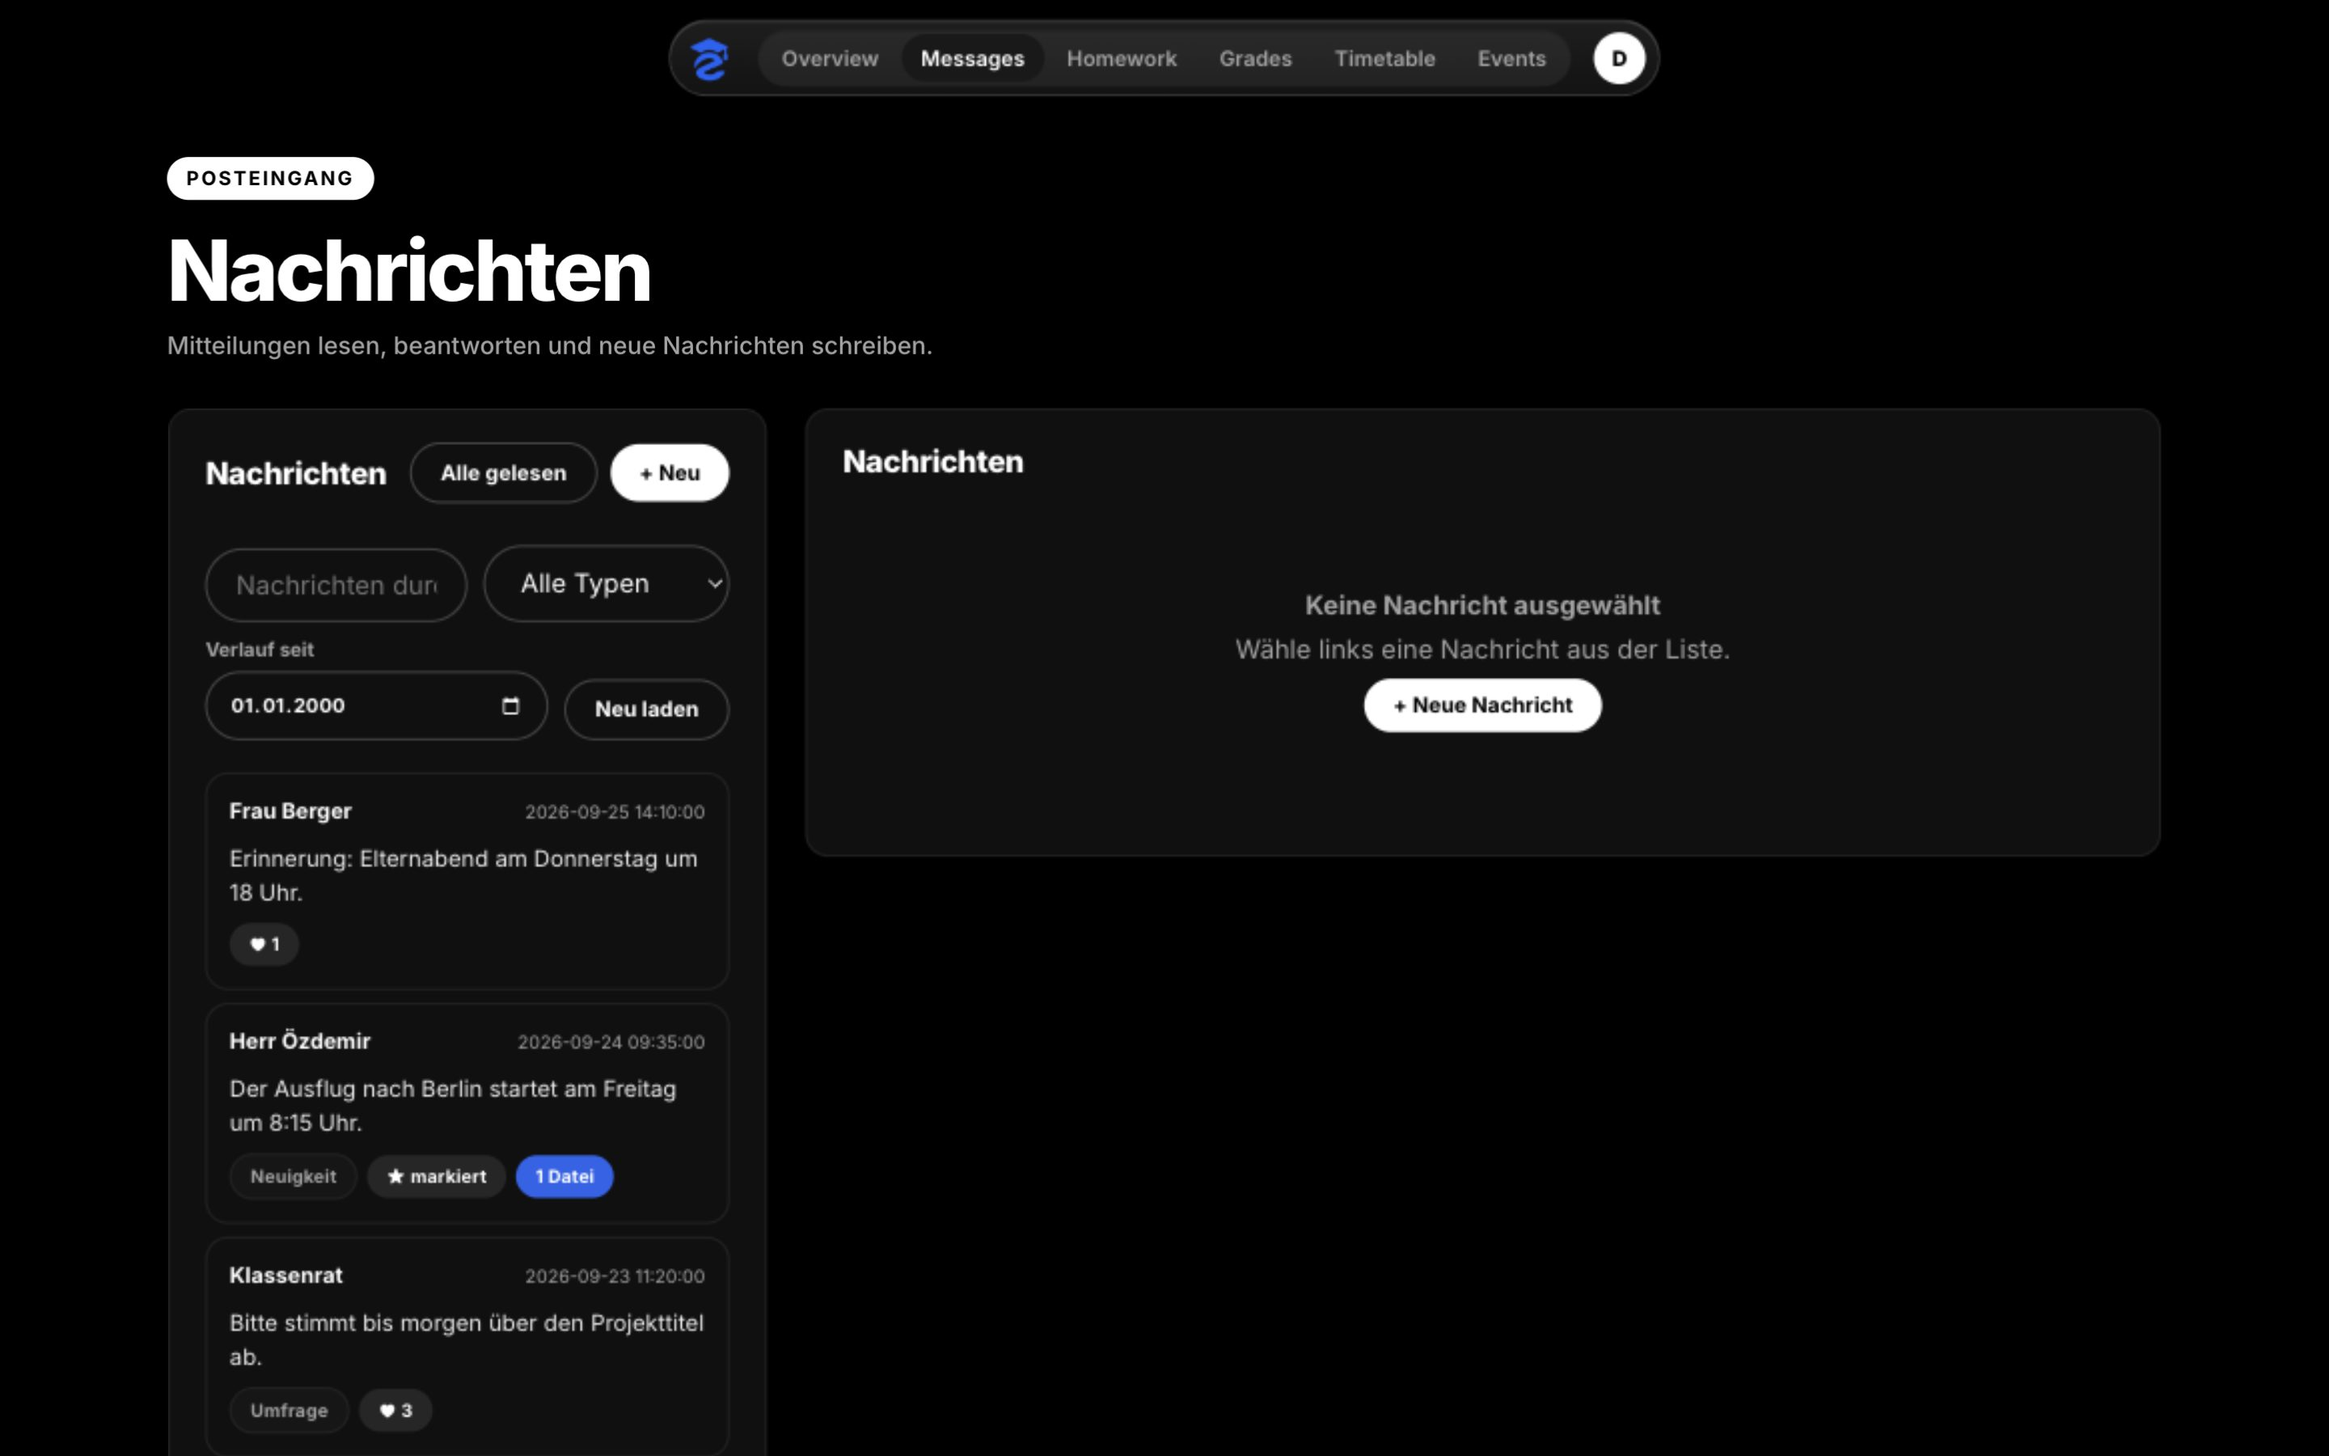
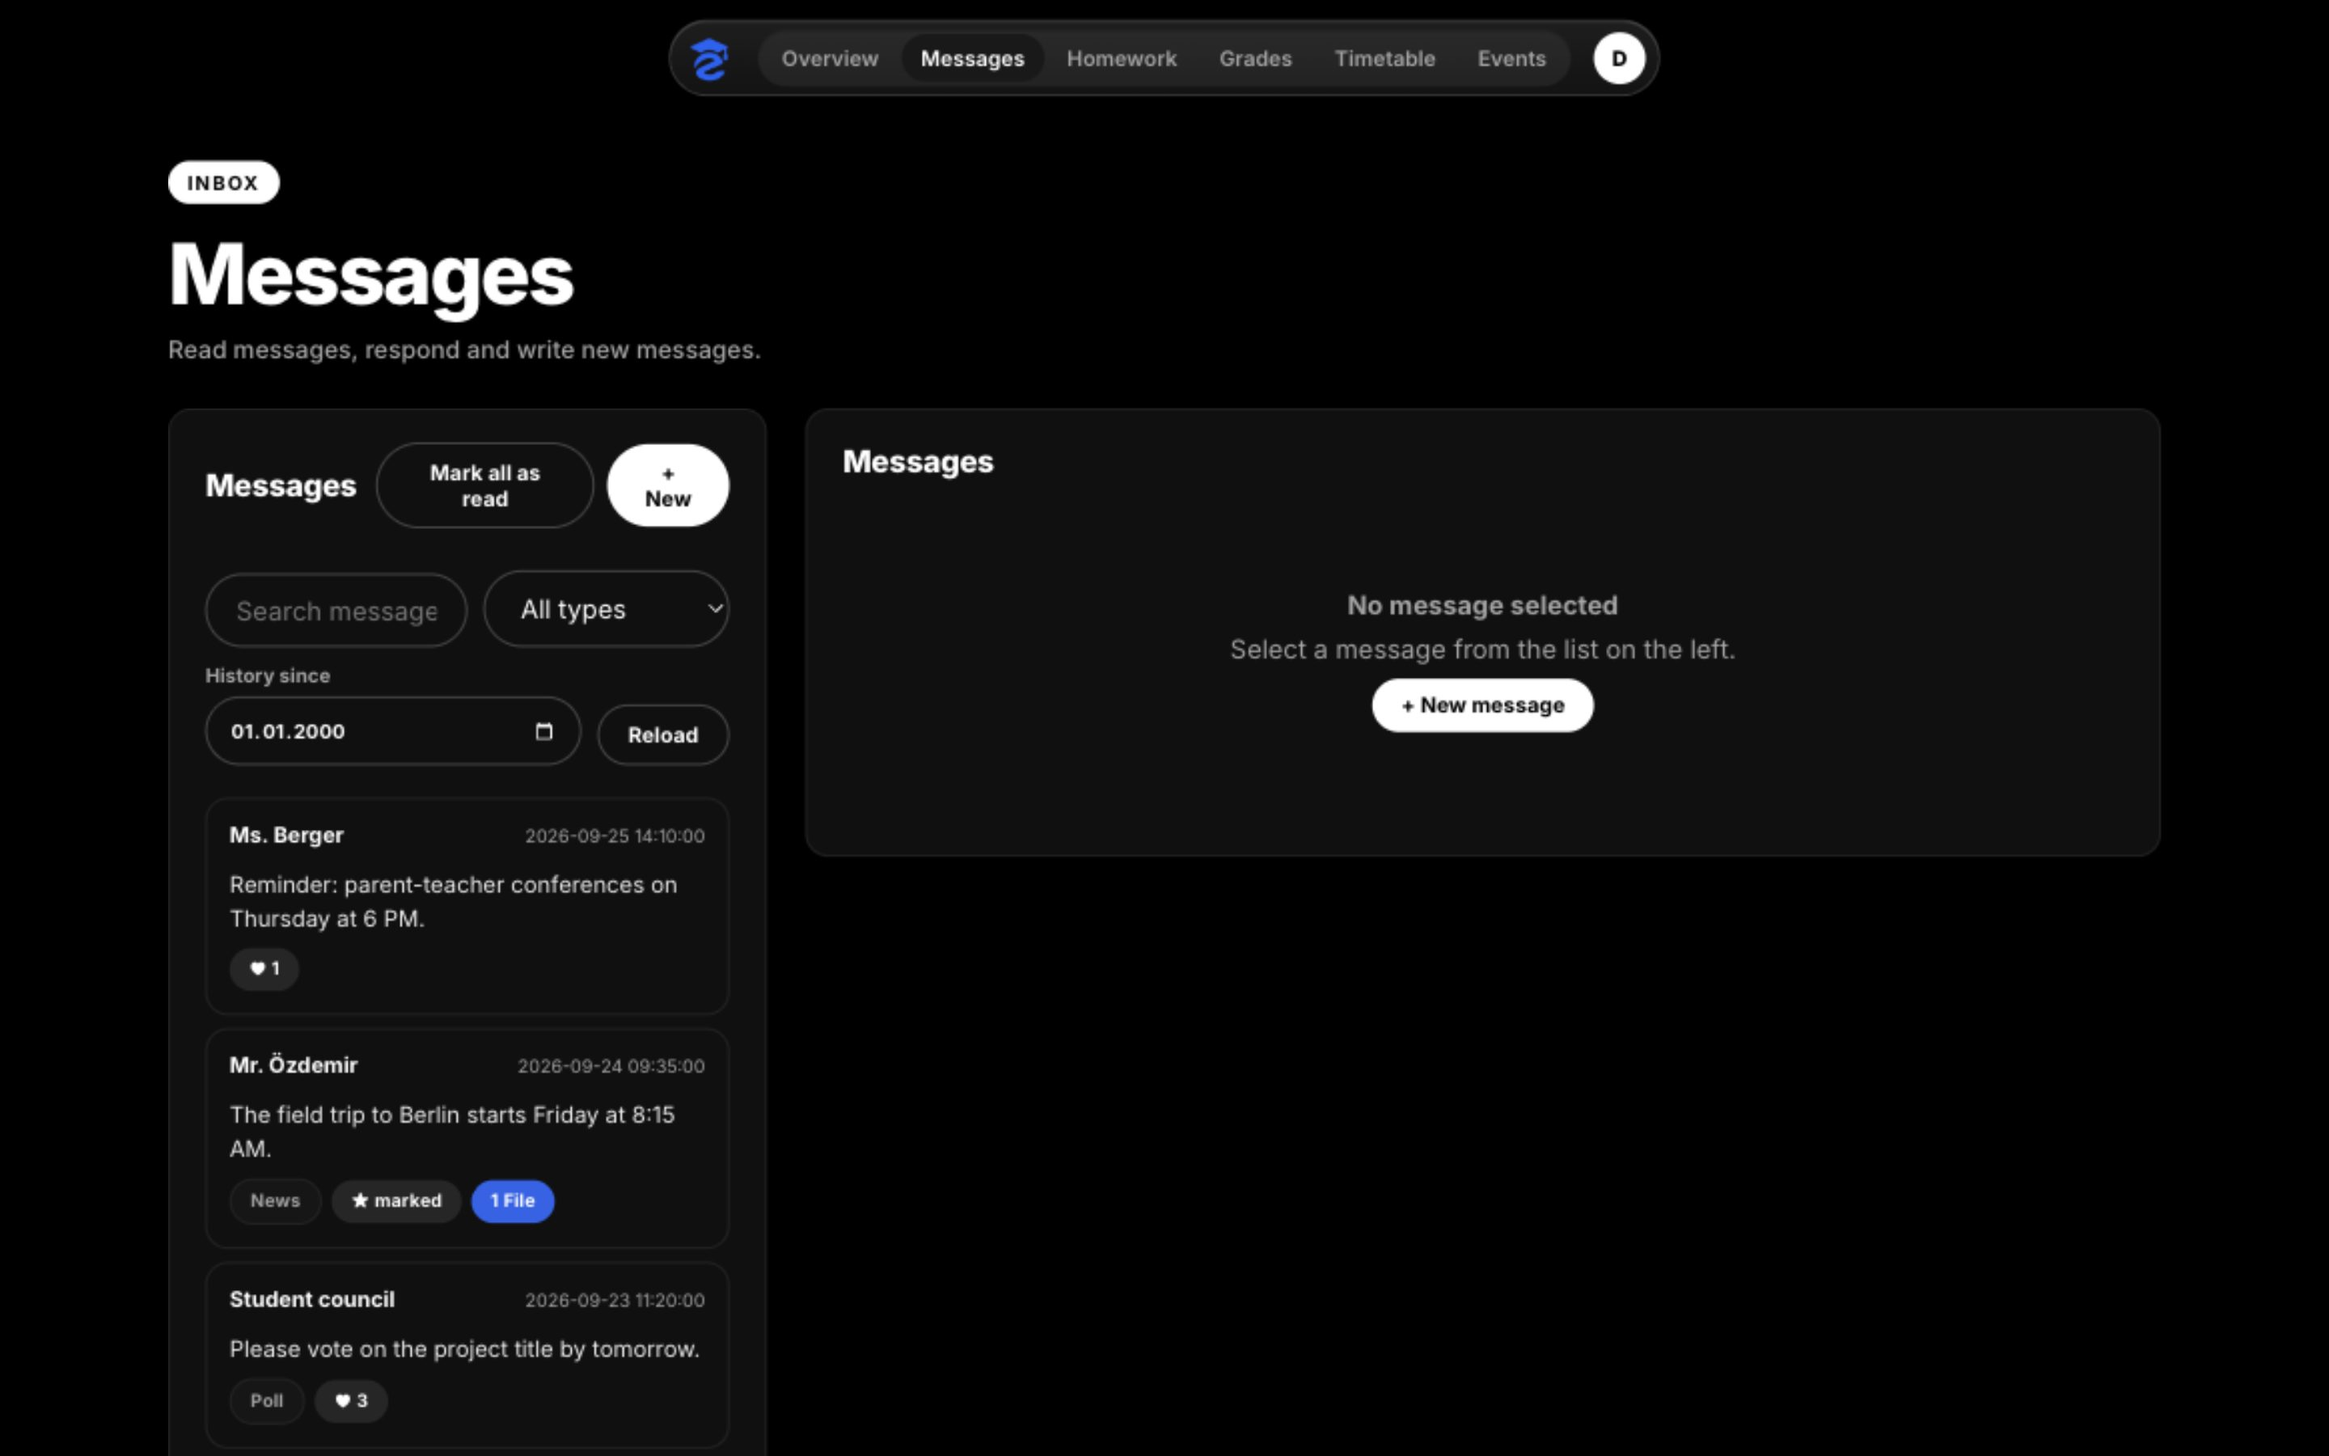
docs: English demo fixtures + screenshots, status pill mapping
Backend demo (fake provider) is now fully English: fixtures,
generated labels, day names, dates (en-US), weather and attachment
texts. Status/filter codes stay German (API contract).
Web shows a localized status pill (new homework.dueToday key).
Docs: 9 English screenshots incl. 2FA.

diff --git a/apps/api/src/testing/demo-data.ts b/apps/api/src/testing/demo-data.ts
@@ -1,8 +1,8 @@
 export const demoMessages = [
-  { id: 4101, timestamp: "2026-09-25 14:10:00", timestamp_iso: "2026-09-25T14:10:00", sort_key: "2026-09-25T14:10:00", text: "Erinnerung: Elternabend am Donnerstag um 18 Uhr.", author: "Frau Berger", recipient: "Klasse 8A", type: "sprava", type_label: "Nachricht", additional_data: {}, is_starred: false, is_done: false, done_at: "", reaction_count: 1, created_at: "2026-09-25T14:10:00", is_removed: false },
-  { id: 4102, timestamp: "2026-09-24 09:35:00", timestamp_iso: "2026-09-24T09:35:00", sort_key: "2026-09-24T09:35:00", text: "Der Ausflug nach Berlin startet am Freitag um 8:15 Uhr.", author: "Herr Özdemir", recipient: "Klasse 8A", type: "news", type_label: "Neuigkeit", additional_data: { filename: "Packliste.pdf", file: "/cloud/demo-packliste.pdf" }, is_starred: true, is_done: false, done_at: "", reaction_count: 0, created_at: "2026-09-24T09:35:00", is_removed: false },
-  { id: 4103, timestamp: "2026-09-23 11:20:00", timestamp_iso: "2026-09-23T11:20:00", sort_key: "2026-09-23T11:20:00", text: "Bitte stimmt bis morgen über den Projekttitel ab.", author: "Klassenrat", recipient: "Klasse 8A", type: "anketa", type_label: "Umfrage", additional_data: {}, is_starred: false, is_done: false, done_at: "", reaction_count: 3, created_at: "2026-09-23T11:20:00", is_removed: false },
-  { id: 4104, timestamp: "2026-09-22 12:00:00", timestamp_iso: "2026-09-22T12:00:00", sort_key: "2026-09-22T12:00:00", text: "Danke für eure Rückmeldungen!", author: "Lea Beispiel", recipient: "Frau Berger", type: "sprava", type_label: "Nachricht", additional_data: { textReply: "4101" }, is_starred: false, is_done: false, done_at: "", reaction_count: 0, created_at: "2026-09-22T12:00:00", is_removed: false },
+  { id: 4101, timestamp: "2026-09-25 14:10:00", timestamp_iso: "2026-09-25T14:10:00", sort_key: "2026-09-25T14:10:00", text: "Reminder: parent-teacher conferences on Thursday at 6 PM.", author: "Ms. Berger", recipient: "Class 8A", type: "sprava", type_label: "Message", additional_data: {}, is_starred: false, is_done: false, done_at: "", reaction_count: 1, created_at: "2026-09-25T14:10:00", is_removed: false },
+  { id: 4102, timestamp: "2026-09-24 09:35:00", timestamp_iso: "2026-09-24T09:35:00", sort_key: "2026-09-24T09:35:00", text: "The field trip to Berlin starts Friday at 8:15 AM.", author: "Mr. Özdemir", recipient: "Class 8A", type: "news", type_label: "News", additional_data: { filename: "PackingList.pdf", file: "/cloud/demo-packing-list.pdf" }, is_starred: true, is_done: false, done_at: "", reaction_count: 0, created_at: "2026-09-24T09:35:00", is_removed: false },
+  { id: 4103, timestamp: "2026-09-23 11:20:00", timestamp_iso: "2026-09-23T11:20:00", sort_key: "2026-09-23T11:20:00", text: "Please vote on the project title by tomorrow.", author: "Student council", recipient: "Class 8A", type: "anketa", type_label: "Poll", additional_data: {}, is_starred: false, is_done: false, done_at: "", reaction_count: 3, created_at: "2026-09-23T11:20:00", is_removed: false },
+  { id: 4104, timestamp: "2026-09-22 12:00:00", timestamp_iso: "2026-09-22T12:00:00", sort_key: "2026-09-22T12:00:00", text: "Thanks for your feedback!", author: "Lea Example", recipient: "Ms. Berger", type: "sprava", type_label: "Message", additional_data: { textReply: "4101" }, is_starred: false, is_done: false, done_at: "", reaction_count: 0, created_at: "2026-09-22T12:00:00", is_removed: false },
 ];
 
 const due = (offset: number): string => {
@@ -10,28 +10,28 @@ const due = (offset: number): string => {
 };
 
 export const demoHomework = [
-  { id: 5101, type: "homework", title: "Übungsblatt 4, Aufgaben 1–6", subject: "Mathematik", teacher: "Frau Berger", description: "Rechenwege vollständig notieren.", assigned: due(-2), assigned_iso: due(-2), due: due(1), due_display: new Date(`${due(1)}T12:00:00`).toLocaleDateString("de-DE"), status: "offen", is_done: false, is_hidden: false },
-  { id: 5102, type: "homework", title: "Vokabeln Unit 3 wiederholen", subject: "Englisch", teacher: "Herr Meyer", description: "Wörter 1 bis 25.", assigned: due(-1), assigned_iso: due(-1), due: due(0), due_display: new Date(`${due(0)}T12:00:00`).toLocaleDateString("de-DE"), status: "heute fällig", is_done: false, is_hidden: false },
-  { id: 5103, type: "homework", title: "Lesetagebuch ergänzen", subject: "Deutsch", teacher: "Herr Özdemir", description: "Kapitel 5 und 6.", assigned: due(-4), assigned_iso: due(-4), due: due(-1), due_display: new Date(`${due(-1)}T12:00:00`).toLocaleDateString("de-DE"), status: "überfällig", is_done: false, is_hidden: false },
-  { id: 5104, type: "homework", title: "Skizze für das Plakat", subject: "Kunst", teacher: "Frau Lang", description: "Papier oder Tablet.", assigned: due(-8), assigned_iso: due(-8), due: due(-3), due_display: new Date(`${due(-3)}T12:00:00`).toLocaleDateString("de-DE"), status: "erledigt", is_done: true, is_hidden: false },
-  { id: 5105, type: "bexam", title: "Lernzielkontrolle: Kräfte", subject: "Physik", teacher: "Frau Berger", description: "Kapitel 2.", assigned: due(-1), assigned_iso: due(-1), due: due(4), due_display: new Date(`${due(4)}T12:00:00`).toLocaleDateString("de-DE"), status: "offen", is_done: false, is_hidden: false },
+  { id: 5101, type: "homework", title: "Practice sheet 4, exercises 1–6", subject: "Math", teacher: "Ms. Berger", description: "Write down all solution steps.", assigned: due(-2), assigned_iso: due(-2), due: due(1), due_display: new Date(`${due(1)}T12:00:00`).toLocaleDateString("en-US"), status: "offen", is_done: false, is_hidden: false },
+  { id: 5102, type: "homework", title: "Review Unit 3 vocabulary", subject: "English", teacher: "Mr. Meyer", description: "Words 1 through 25.", assigned: due(-1), assigned_iso: due(-1), due: due(0), due_display: new Date(`${due(0)}T12:00:00`).toLocaleDateString("en-US"), status: "heute fällig", is_done: false, is_hidden: false },
+  { id: 5103, type: "homework", title: "Complete the reading journal", subject: "German", teacher: "Mr. Özdemir", description: "Chapters 5 and 6.", assigned: due(-4), assigned_iso: due(-4), due: due(-1), due_display: new Date(`${due(-1)}T12:00:00`).toLocaleDateString("en-US"), status: "überfällig", is_done: false, is_hidden: false },
+  { id: 5104, type: "homework", title: "Sketch for the poster", subject: "Art", teacher: "Ms. Lang", description: "Paper or tablet.", assigned: due(-8), assigned_iso: due(-8), due: due(-3), due_display: new Date(`${due(-3)}T12:00:00`).toLocaleDateString("en-US"), status: "erledigt", is_done: true, is_hidden: false },
+  { id: 5105, type: "bexam", title: "Quiz: forces", subject: "Physics", teacher: "Ms. Berger", description: "Chapter 2.", assigned: due(-1), assigned_iso: due(-1), due: due(4), due_display: new Date(`${due(4)}T12:00:00`).toLocaleDateString("en-US"), status: "offen", is_done: false, is_hidden: false },
 ];
 
 export const demoGrades = [
-  { id: 6101, title: "Schularbeit 1", subject: "Mathematik", teacher: "Frau Berger", date_display: "24.09.2026", date_iso: "2026-09-24", sort_key: "2026-09-24T00:00:00", comment: "", grade_display: "2", grade_num: 2, weight: 1, weight_display: "", grade_sub: "", badge: "g12", class_avg: 2.4, class_avg_display: "2,4", is_classic: true },
-  { id: 6102, title: "Vokabeltest 3", subject: "Englisch", teacher: "Herr Meyer", date_display: "22.09.2026", date_iso: "2026-09-22", sort_key: "2026-09-22T00:00:00", comment: "", grade_display: "1", grade_num: 1, weight: 1, weight_display: "", grade_sub: "", badge: "g12", class_avg: null, class_avg_display: "", is_classic: true },
-  { id: 6103, title: "Interpretation", subject: "Deutsch", teacher: "Herr Özdemir", date_display: "18.09.2026", date_iso: "2026-09-18", sort_key: "2026-09-18T00:00:00", comment: "Gute Belege", grade_display: "2+", grade_num: 1.7, weight: 0.5, weight_display: "½", grade_sub: "", badge: "g12", class_avg: 2.8, class_avg_display: "2,8", is_classic: true },
+  { id: 6101, title: "Written test 1", subject: "Math", teacher: "Ms. Berger", date_display: "09/24/2026", date_iso: "2026-09-24", sort_key: "2026-09-24T00:00:00", comment: "", grade_display: "2", grade_num: 2, weight: 1, weight_display: "", grade_sub: "", badge: "g12", class_avg: 2.4, class_avg_display: "2.4", is_classic: true },
+  { id: 6102, title: "Vocabulary quiz 3", subject: "English", teacher: "Mr. Meyer", date_display: "09/22/2026", date_iso: "2026-09-22", sort_key: "2026-09-22T00:00:00", comment: "", grade_display: "1", grade_num: 1, weight: 1, weight_display: "", grade_sub: "", badge: "g12", class_avg: null, class_avg_display: "", is_classic: true },
+  { id: 6103, title: "Literary analysis", subject: "German", teacher: "Mr. Özdemir", date_display: "09/18/2026", date_iso: "2026-09-18", sort_key: "2026-09-18T00:00:00", comment: "Good evidence", grade_display: "2+", grade_num: 1.7, weight: 0.5, weight_display: "½", grade_sub: "", badge: "g12", class_avg: 2.8, class_avg_display: "2.8", is_classic: true },
 ];
 
 export const demoLessons = [
-  { period: "1", time: "07:45–08:30", title: "Mathematik", is_lernzeit: false, teachers: "Frau Berger", rooms: "R204", is_cancelled: false, is_event: false, is_online: false },
-  { period: "2–3", time: "08:35–10:20", title: "Lernzeit", is_lernzeit: true, teachers: "", rooms: "Lernraum", is_cancelled: false, is_event: false, is_online: false },
-  { period: "4", time: "10:25–11:10", title: "Englisch", is_lernzeit: false, teachers: "Herr Meyer", rooms: "R108", is_cancelled: true, is_event: false, is_online: false },
-  { period: "5", time: "11:15–12:00", title: "Physik", is_lernzeit: false, teachers: "Frau Berger", rooms: "R305", is_cancelled: false, is_event: false, is_online: true },
+  { period: "1", time: "07:45–08:30", title: "Math", is_lernzeit: false, teachers: "Ms. Berger", rooms: "R204", is_cancelled: false, is_event: false, is_online: false },
+  { period: "2–3", time: "08:35–10:20", title: "Study hall", is_lernzeit: true, teachers: "", rooms: "Study room", is_cancelled: false, is_event: false, is_online: false },
+  { period: "4", time: "10:25–11:10", title: "English", is_lernzeit: false, teachers: "Mr. Meyer", rooms: "R108", is_cancelled: true, is_event: false, is_online: false },
+  { period: "5", time: "11:15–12:00", title: "Physics", is_lernzeit: false, teachers: "Ms. Berger", rooms: "R305", is_cancelled: false, is_event: false, is_online: true },
 ];
 
 export const demoRecipients = [
-  { id: "Teacher7", name: "Frau Berger", kind: "teacher", detail: "Mathematik, Physik" },
-  { id: "Teacher8", name: "Herr Özdemir", kind: "teacher", detail: "Deutsch" },
-  { id: "Student9", name: "Lea Beispiel", kind: "student", detail: "8A" },
+  { id: "Teacher7", name: "Ms. Berger", kind: "teacher", detail: "Math, Physics" },
+  { id: "Teacher8", name: "Mr. Özdemir", kind: "teacher", detail: "German" },
+  { id: "Student9", name: "Lea Example", kind: "student", detail: "8A" },
 ];

diff --git a/apps/api/src/school/demo-school.service.spec.ts b/apps/api/src/school/demo-school.service.spec.ts
@@ -31,9 +31,9 @@ describe("DemoSchoolService", () => {
   beforeEach(() => { states.clear(); jest.clearAllMocks(); service = new DemoSchoolService(prisma as never); });
 
   it("keeps message search, type filters and pagination behavior", async () => {
-    const page = await service.messages({ sub: "acct", jti: "t", tokenUse: "access" }, { type: "sprava", q: "FRAU BERGER Elternabend", limit: "1" });
+    const page = await service.messages({ sub: "acct", jti: "t", tokenUse: "access" }, { type: "sprava", q: "MS BERGER parent-teacher", limit: "1" });
     expect(page.total).toBe(1);
-    expect(page.items[0]).toMatchObject({ id: 4101, type_label: "Nachricht" });
+    expect(page.items[0]).toMatchObject({ id: 4101, type_label: "Message" });
     await expect(service.messages({ sub: "acct", jti: "t", tokenUse: "access" }, { type: "bogus" })).rejects.toMatchObject({ response: { code: "VALIDATION" } });
   });
 

diff --git a/apps/api/src/school/demo-school.service.ts b/apps/api/src/school/demo-school.service.ts
@@ -26,7 +26,6 @@ const hash = (text: string) => createHash("sha256").update(text).digest("hex");
 const norm = (text: unknown) => typeof text === "string" ? text.normalize("NFD").replace(/[\u0300-\u036f]/g, "").toLocaleLowerCase("en") : "";
 const dateOnly = (value: string | Date) => new Date(value).toISOString().slice(0, 10);
 const englishDays = ["Sunday", "Monday", "Tuesday", "Wednesday", "Thursday", "Friday", "Saturday"];
-const germanMonths = ["Januar", "Februar", "März", "April", "Mai", "Juni", "Juli", "August", "September", "Oktober", "November", "Dezember"];
 const parseDate = (input: unknown, fallback: Date): Date => {
   if (input === undefined || input === "") return fallback;
   if (typeof input !== "string" || !/^\d{4}-\d{2}-\d{2}$/.test(input) || Number.isNaN(Date.parse(`${input}T00:00:00Z`))) throw new BadRequestException({ error: t("validation.dateFormatShort"), code: "VALIDATION" });

diff --git a/docs/FEATURES.md b/docs/FEATURES.md
@@ -1,6 +1,6 @@
 # Features
 
-All pages share the top pill nav (Overview, Messages, Homework, Grades, Timetable, Events) and a profile menu (Settings, Sign out). Screenshots below show the demo (`demo` / `demo`) with synthetic — partly German — sample data.
+All pages share the top pill nav (Overview, Messages, Homework, Grades, Timetable, Events) and a profile menu (Settings, Sign out). Screenshots below show the English demo (`demo` / `demo`) with synthetic sample data.
 
 ## Overview (`/`)
 

diff --git a/docs/GETTING_STARTED.md b/docs/GETTING_STARTED.md
@@ -28,6 +28,8 @@ API_PORT=3001 WEB_PORT=8001 ./run.sh
 
 ![Login](images/login.jpg)
 
+![Two-factor code](images/2fa.jpg)
+
 ## Verify
 
 ```sh
